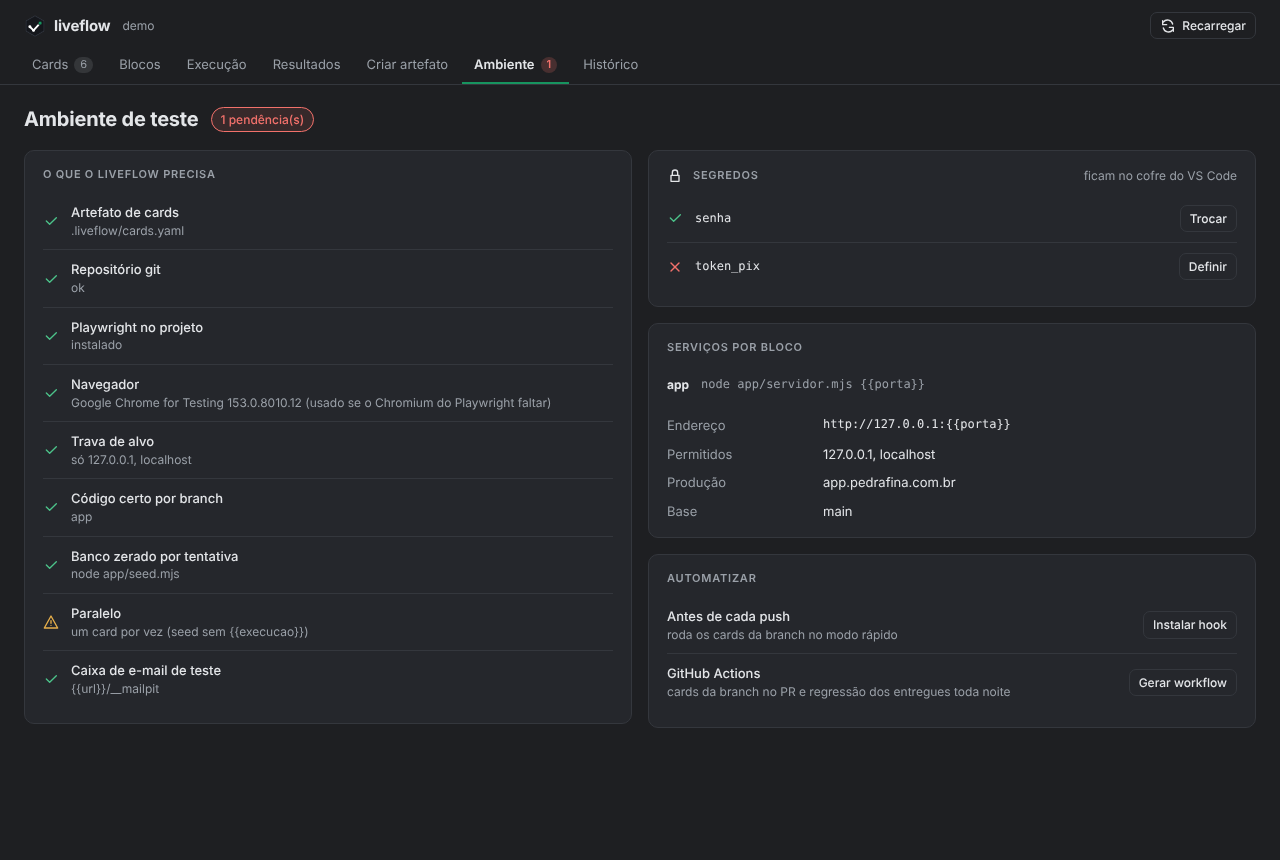
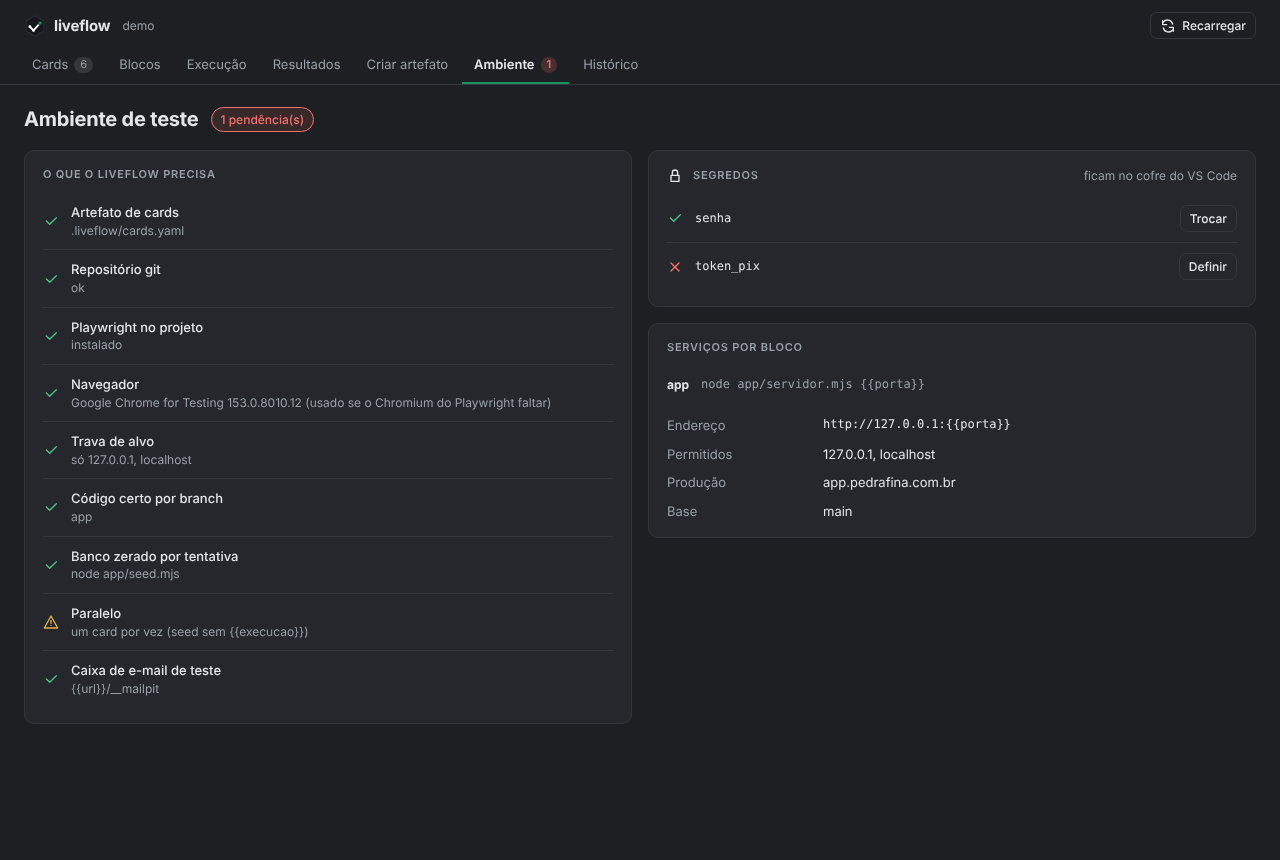
0.1.8: Ambiente sem o quadro Automatizar
Claude-Session: https://claude.ai/code/session_01YNpP7fj2mSoftUsv5ddTQN

Changed region(s): [[0.5312, 0.6651, 0.7812, 0.8163], [0.9062, 0.6953, 0.9688, 0.7558], [0.875, 0.786, 0.9688, 0.8163]]

diff --git a/extensao/media/app.js b/extensao/media/app.js
@@ -496,11 +496,7 @@
             seg.length ? h('div', { class: 'lista' }, seg.map((s) => h('div', { class: 'linha' }, s.definido ? svg(I.ok, 'var(--verde)') : svg(I.x, 'var(--vermelho)'), h('span', { class: 'm', style: 'flex:1' }, s.nome), h('button', { class: 'btn peq', onclick: () => enviar({ tipo: 'definirSegredo', nome: s.nome }) }, s.definido ? 'Trocar' : 'Definir')))) : h('div', { class: 'mudo peq' }, 'O artefato não usa {{segredo:...}}.')),
           h('div', { class: 'cartao' }, h('div', { class: 'sec' }, h('h2', {}, 'Serviços por bloco')),
             a.sistema.servicos.length ? h('div', { class: 'lista' }, a.sistema.servicos.map((s) => h('div', { class: 'linha peq' }, h('b', {}, s.nome), h('span', { class: 'm mudo', style: 'flex:1' }, s.iniciar), s.repo ? h('span', { class: 'chip' }, s.repo) : null))) : h('div', { class: 'peq amb-txt' }, 'Sem "iniciar"/"servicos": o liveflow só testa a branch do seu checkout atual.'),
-            h('div', { class: 'grade', style: 'margin-top:12px' }, 'Endereço', h('span', { class: 'm' }, a.sistema.url), 'Permitidos', a.sistema.permitidos.join(', '), 'Produção', a.sistema.producao.join(', ') || '—', 'Base', a.sistema.base)),
-          h('div', { class: 'cartao' }, h('div', { class: 'sec' }, h('h2', {}, 'Automatizar')),
-            h('div', { class: 'lista' },
-              h('div', { class: 'linha' }, h('div', { style: 'flex:1' }, h('div', { style: 'font-weight:500' }, 'Antes de cada push'), h('div', { class: 'peq mudo' }, 'roda os cards da branch no modo rápido')), h('button', { class: 'btn peq', onclick: () => enviar({ tipo: 'acao', qual: 'hook' }) }, 'Instalar hook')),
-              h('div', { class: 'linha' }, h('div', { style: 'flex:1' }, h('div', { style: 'font-weight:500' }, 'GitHub Actions'), h('div', { class: 'peq mudo' }, 'cards da branch no PR e regressão dos entregues toda noite')), h('button', { class: 'btn peq', onclick: () => enviar({ tipo: 'acao', qual: 'ci' }) }, 'Gerar workflow')))))),
+            h('div', { class: 'grade', style: 'margin-top:12px' }, 'Endereço', h('span', { class: 'm' }, a.sistema.url), 'Permitidos', a.sistema.permitidos.join(', '), 'Produção', a.sistema.producao.join(', ') || '—', 'Base', a.sistema.base)))),
     ];
   }
 

diff --git a/extensao/README.md b/extensao/README.md
@@ -13,7 +13,7 @@ Cada card do `.liveflow/cards.yaml` tem os critérios de aceite e um passo a pas
 - **Blocos:** como os cards vão rodar (um app por branch, dependências, paralelo seguro) e o modo.
 - **Execução ao vivo:** com um card, a tela do app aparece dentro do painel, passo a passo. Com vários, o progresso de cada um e a tentativa (1, 2 ou 3 de 3).
 - **Problema:** falha confirmada, o que existe parecido na tela quando o texto mudou, print, trace e **Resolver com Claude**.
-- **Criar artefato** com os cards do seu quadro (o Claude escreve o passo a passo), **Ambiente** (segredos no cofre do VS Code, hook de pre-push, GitHub Actions) e **Histórico** com quarentena de testes instáveis.
+- **Criar artefato** com os cards do seu quadro (o Claude escreve o passo a passo), **Ambiente** (o que falta para testar e segredos no cofre do VS Code) e **Histórico** com quarentena de testes instáveis.
 
 ![Lista de cards](https://raw.githubusercontent.com/joaocarpim/live-flow/main/docs/imagens/01-cards.png)
 

diff --git a/CLAUDE.md b/CLAUDE.md
@@ -87,7 +87,7 @@ O liveflow testa **cards**. Não existe "rodar por branch" nem "como testar da b
 
 ## Comandos de desenvolvimento
 
-- `npm test`: 67 testes (git real com branch local e remota, dois repositórios, app subindo por branch, Mailpit falso).
+- `npm test`: 71 testes (git real com branch local e remota, dois repositórios, app subindo por branch, Mailpit falso).
 - `LIVEFLOW_PW_NODE_MODULES=/caminho/node_modules npm test`: inclui os 3 testes com navegador de verdade (duas pessoas, foto, celular, e-mail, sessão reaproveitada, sugestão de texto, gravador).
 - `npm run typecheck`, `npm run build` (gera `dist/`; roda sozinho no `prepare` ao instalar pelo GitHub).
 - Extensão: `cd extensao && node build.mjs` e `npx --prefix .. vsce package --no-dependencies` (publisher no Marketplace: `JooVitorAparecidoCarpimdeSouza`).

diff --git a/docs/extensao.md b/docs/extensao.md
@@ -55,7 +55,7 @@ Cole os cards do seu quadro (id, título, critérios, branch) e clique em **Gera
 <img src="imagens/08-criar.png" alt="Criar artefato">
 
 ### Ambiente e Histórico
-O que falta (com o comando que resolve), segredos, serviços, hook e GitHub Actions. Histórico por card e quarentena.
+O que falta (com o comando que resolve), segredos e serviços. Histórico por card e quarentena.
 
 <img src="imagens/09-ambiente.png" alt="Ambiente">
 <img src="imagens/10-historico.png" alt="Histórico">

diff --git a/CHANGELOG.md b/CHANGELOG.md
@@ -1,5 +1,9 @@
 # Changelog
 
+## 0.1.8 (2026-11-24)
+
+- A aba Ambiente não mostra mais o quadro "Automatizar" (hook de pre-push e GitHub Actions). Os comandos continuam na CLI (`liveflow hook instalar`, `liveflow ci gerar`) para quem quiser.
+
 ## 0.1.7 (2026-11-24)
 
 - A aba do painel usa a logo (hexágono com o check), não mais o ícone em contorno da barra lateral. No tema escuro, a logo ganha um contorno sutil para o hexágono não sumir; o mesmo vale para o cabeçalho do painel.
